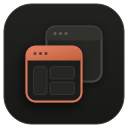
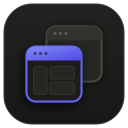
feat: adopt indigo product palette, add window controls permissions, and simplify app creation

Changed region(s): [[0.1875, 0.3438, 0.6562, 0.8125]]

diff --git a/ui/src/components/layout/Titlebar.tsx b/ui/src/components/layout/Titlebar.tsx
@@ -1,11 +1,9 @@
-import { Settings, HelpCircle, Terminal } from 'lucide-react';
+import { Settings, HelpCircle } from 'lucide-react';
 import { AppifyMark, StrataTitlebar, Button, Tooltip } from '@aerovex/strata-ui';
 import { useAppifyStore } from '../../state/useAppifyStore';
 
 export function Titlebar() {
   const {
-    activeTab,
-    setActiveTab,
     setSettingsModalOpen,
     setShortcutsModalOpen,
   } = useAppifyStore();
@@ -18,14 +16,13 @@ export function Titlebar() {
 
   const rightActions = (
     <>
-      <Tooltip content="Diagnostics & Event Log">
+      <Tooltip content="Keyboard Shortcuts (?)">
         <Button
-          variant={activeTab === 'diagnostics' ? 'secondary' : 'ghost'}
-          onClick={() => setActiveTab('diagnostics')}
-          className="h-7 px-2.5 rounded-pill text-xs gap-1.5 text-muted hover:text-fg"
+          variant="icon"
+          onClick={() => setShortcutsModalOpen(true)}
+          className="h-7 w-7 text-muted hover:text-fg"
         >
-          <Terminal className="w-3.5 h-3.5" />
-          <span className="hidden sm:inline font-medium">Diagnostics</span>
+          <HelpCircle className="w-3.5 h-3.5" />
         </Button>
       </Tooltip>
 

diff --git a/ui/src/components/layout/Sidebar.tsx b/ui/src/components/layout/Sidebar.tsx
@@ -20,7 +20,7 @@ interface NavItem {
 const NAV_ITEMS: NavItem[] = [
   { id: 'apps', label: 'My Applications', icon: LayoutGrid, countKey: 'apps' },
   { id: 'presets', label: 'Curated Presets', icon: Sparkles, countKey: 'presets' },
-  { id: 'wizard', label: 'Create New App', icon: PlusCircle },
+  { id: 'wizard', label: 'New App', icon: PlusCircle },
   { id: 'extensions', label: 'UserScripts & Themes', icon: Puzzle },
   { id: 'marketplace', label: 'Marketplace', icon: ShoppingBag },
   { id: 'diagnostics', label: 'Diagnostics & Logs', icon: Activity },

diff --git a/ui/src/components/apps/AppGrid.tsx b/ui/src/components/apps/AppGrid.tsx
@@ -73,7 +73,7 @@ export function AppGrid() {
             className="h-9 px-4 text-xs rounded-xl font-medium gap-2 justify-center shadow-xs"
           >
             <Plus className="w-3.5 h-3.5" />
-            <span>Create New App</span>
+            <span>New App</span>
           </Button>
         </div>
       </div>

diff --git a/ui/src/index.css b/ui/src/index.css
@@ -19,8 +19,8 @@
     --k-fg-rgb: 236 233 225;
     --k-muted: #98958c;
     --k-muted-rgb: 152 149 140;
-    --k-accent: #d97757;
-    --k-accent-rgb: 217 119 87;
+    --k-accent: #6366f1;
+    --k-accent-rgb: 99 102 241;
     --k-accent-fg: #1b1b1a;
     --k-accent-fg-rgb: 27 27 26;
     --k-danger: #e5645a;
